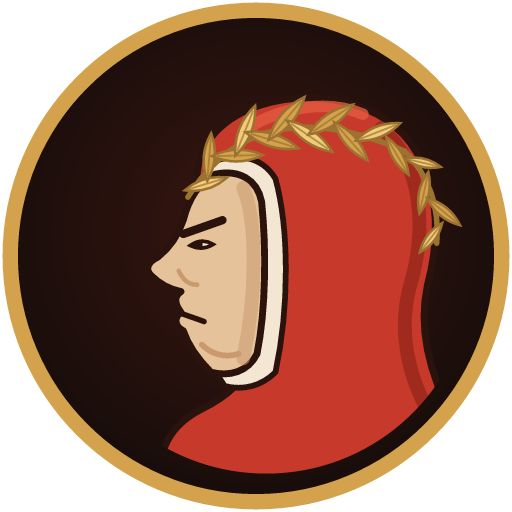
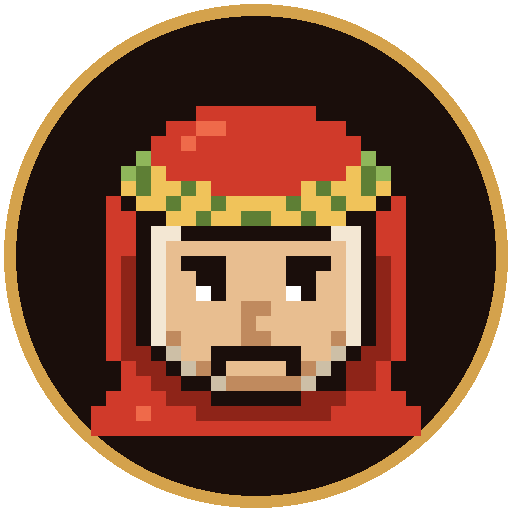
feat: pixel-art portrait and a header that can stay pinned
The portrait is drawn in code on a 22x24 grid, with no image dependencies. The mod draws the header in a pinned slot when the build offers one, and as a transcript row otherwise.

diff --git a/plugin/hooks/register.tsx b/plugin/hooks/register.tsx
@@ -13,9 +13,18 @@ const PLUGIN = 'dante'
 const VERSION = '0.1.0'
 const HEADER_ID = 'header'
 
+// Stock Claude Code has no fixed slot at the top of the terminal, so the header is placed as a
+// transcript row. A build that has one (DANTE_PINNED_HEADER=1) asks for a `Placed` drawing of this
+// plugin's "header" under this requestId, HEADER_ROWS tall; it stays put while the chat scrolls.
+const PINNED_REQUEST_ID = 'dante-header'
+const HEADER_ROWS = 5
+const PORTRAIT = { columns: 10, rows: 4 } as const
+
 const EMBER = '#D9452B'
 const GOLD = '#D4A24C'
 const LAUREL = '#8FB65A'
+/** The rule that closes the pinned header: from deep ember to gold. */
+const RULE = ['#8E2418', '#B8352A', EMBER, '#F07A4D', GOLD] as const
 
 // Literals on purpose: Claude Code scans these references before running the module.
 const journeyAtom = atom({ plugin: 'dante', key: 'journey' } as const, null, { shape: 'journey-1' })
@@ -73,19 +82,42 @@ export const register: Register = on => {
   let header: Header | null = null
   let lang: Lang = 'en'
   let stopTicking: (() => void) | undefined
+  // Whether this build pins the header, and which layout the terminal draws (learnt from the
+  // prompt hint's viewport). The main screen has no pinned slot.
+  let isPinned = false
+  let isFullscreen: boolean | undefined
+  let isPlaced = false
+
+  // True once, when the header should become a transcript row.
+  const claimPlacement = (): boolean => {
+    if (header === null || isPlaced || (isPinned && isFullscreen !== false)) return false
+    isPlaced = true
+    return true
+  }
 
   on('session.start', async ($, e, next) => {
     const result = await next(e)
     const wanted = await $.env.get('DANTE_UI_LANG')
     lang = wanted === 'es' ? 'es' : 'en'
+    isPinned = (await $.env.get('DANTE_PINNED_HEADER')) === '1'
 
     if (!e.isInteractive) return result
 
     const [version, model, home] = await Promise.all([$.session.version(), $.session.model(), $.env.get('HOME')])
     const cwd = home && e.cwd.startsWith(home) ? `~${e.cwd.slice(home.length)}` : e.cwd
     header = { version: version.base ?? version.version, model: displayModel(model), cwd }
-    await $.ui.place({ id: HEADER_ID })
+    // The pinned header may have drawn blank before this point.
+    $.ui.invalidate('ui.render')
+    if (claimPlacement()) await $.ui.place({ id: HEADER_ID })
     return result
+  })
+
+  on('ui.render', { component: 'PromptHint' }, async ($, e, next) => {
+    if (e.surface === 'terminal' && isFullscreen === undefined && e.viewport?.isFullscreen !== undefined) {
+      isFullscreen = e.viewport.isFullscreen
+      if (claimPlacement()) await $.ui.place({ id: HEADER_ID })
+    }
+    return next(e)
   })
 
   on('prompt.compose', async ($, e, next) => {
@@ -158,10 +190,15 @@ export const register: Register = on => {
       return next(e)
     }
     const { Box, Image, Text } = $.ui.resolve(e)
-    return (
-      <Box flexDirection="row" paddingY={1}>
-        <Image source={{ file: `${$.plugin.root}/art/dante.png`, format: 'png' }} columns={10} rows={4} alt="Dante" />
-        <Box flexDirection="column" paddingLeft={2}>
+    const identity = (
+      <Box flexDirection="row" height={PORTRAIT.rows}>
+        <Image
+          source={{ file: `${$.plugin.root}/art/dante.png`, format: 'png' }}
+          columns={PORTRAIT.columns}
+          rows={PORTRAIT.rows}
+          alt="Dante"
+        />
+        <Box flexDirection="column" justifyContent="center" paddingLeft={2}>
           <Text>
             <Text bold color={EMBER}>
               DANTE
@@ -173,6 +210,28 @@ export const register: Register = on => {
             Claude Code {header.version} · {header.cwd}
           </Text>
         </Box>
+      </Box>
+    )
+    if (e.requestId !== PINNED_REQUEST_ID) {
+      return (
+        <Box flexDirection="column" paddingY={1}>
+          {identity}
+        </Box>
+      )
+    }
+    // Pinned: exactly HEADER_ROWS tall, closed by the ember rule the chat scrolls under.
+    const width = Math.max(RULE.length, e.viewport?.columns ?? 80)
+    const part = Math.floor(width / RULE.length)
+    return (
+      <Box flexDirection="column" height={HEADER_ROWS} overflow="hidden">
+        {identity}
+        <Text>
+          {RULE.map((color, i) => (
+            <Text key={`r${i}`} color={color}>
+              {'─'.repeat(i === RULE.length - 1 ? width - part * (RULE.length - 1) : part)}
+            </Text>
+          ))}
+        </Text>
       </Box>
     )
   })
